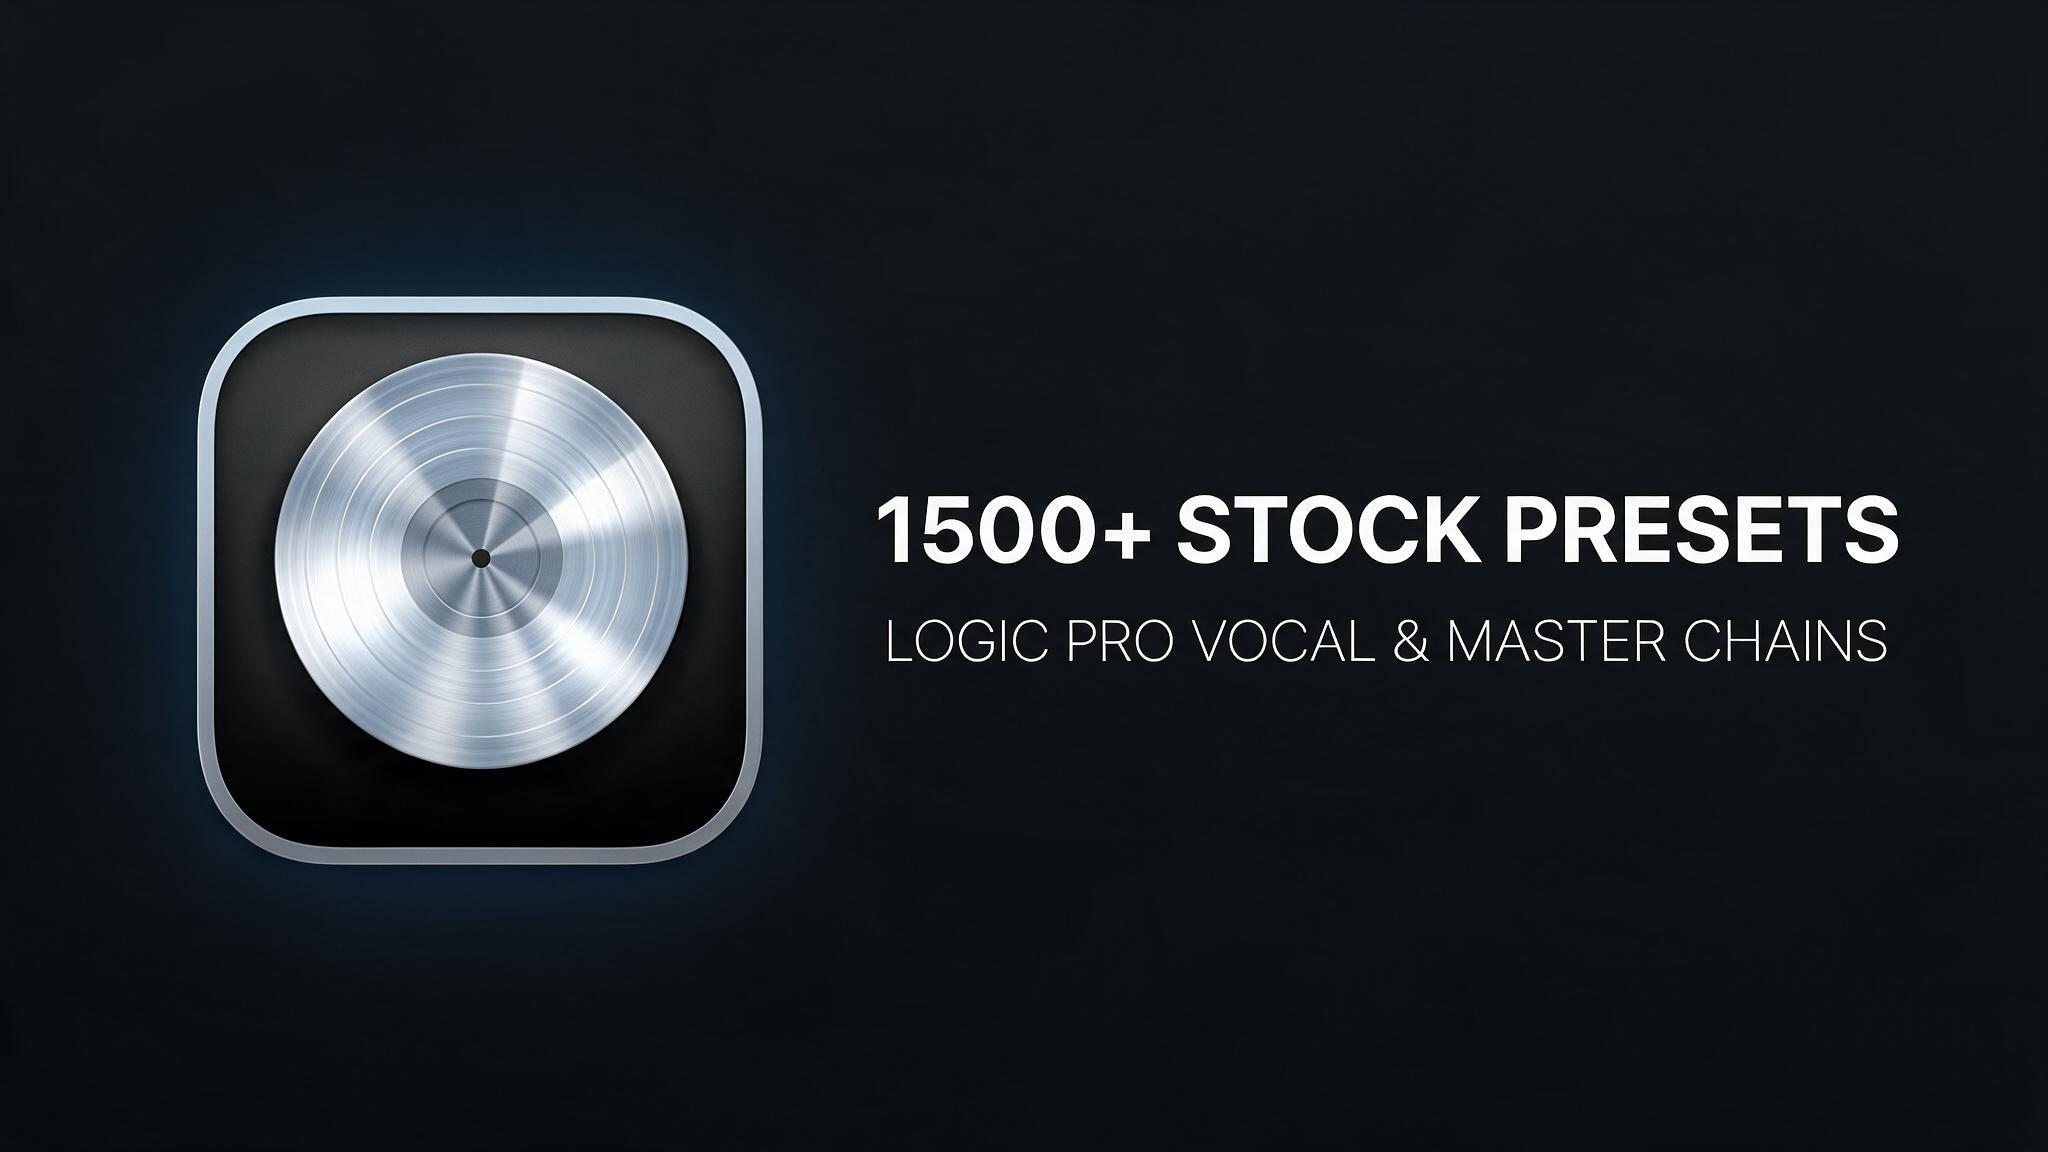
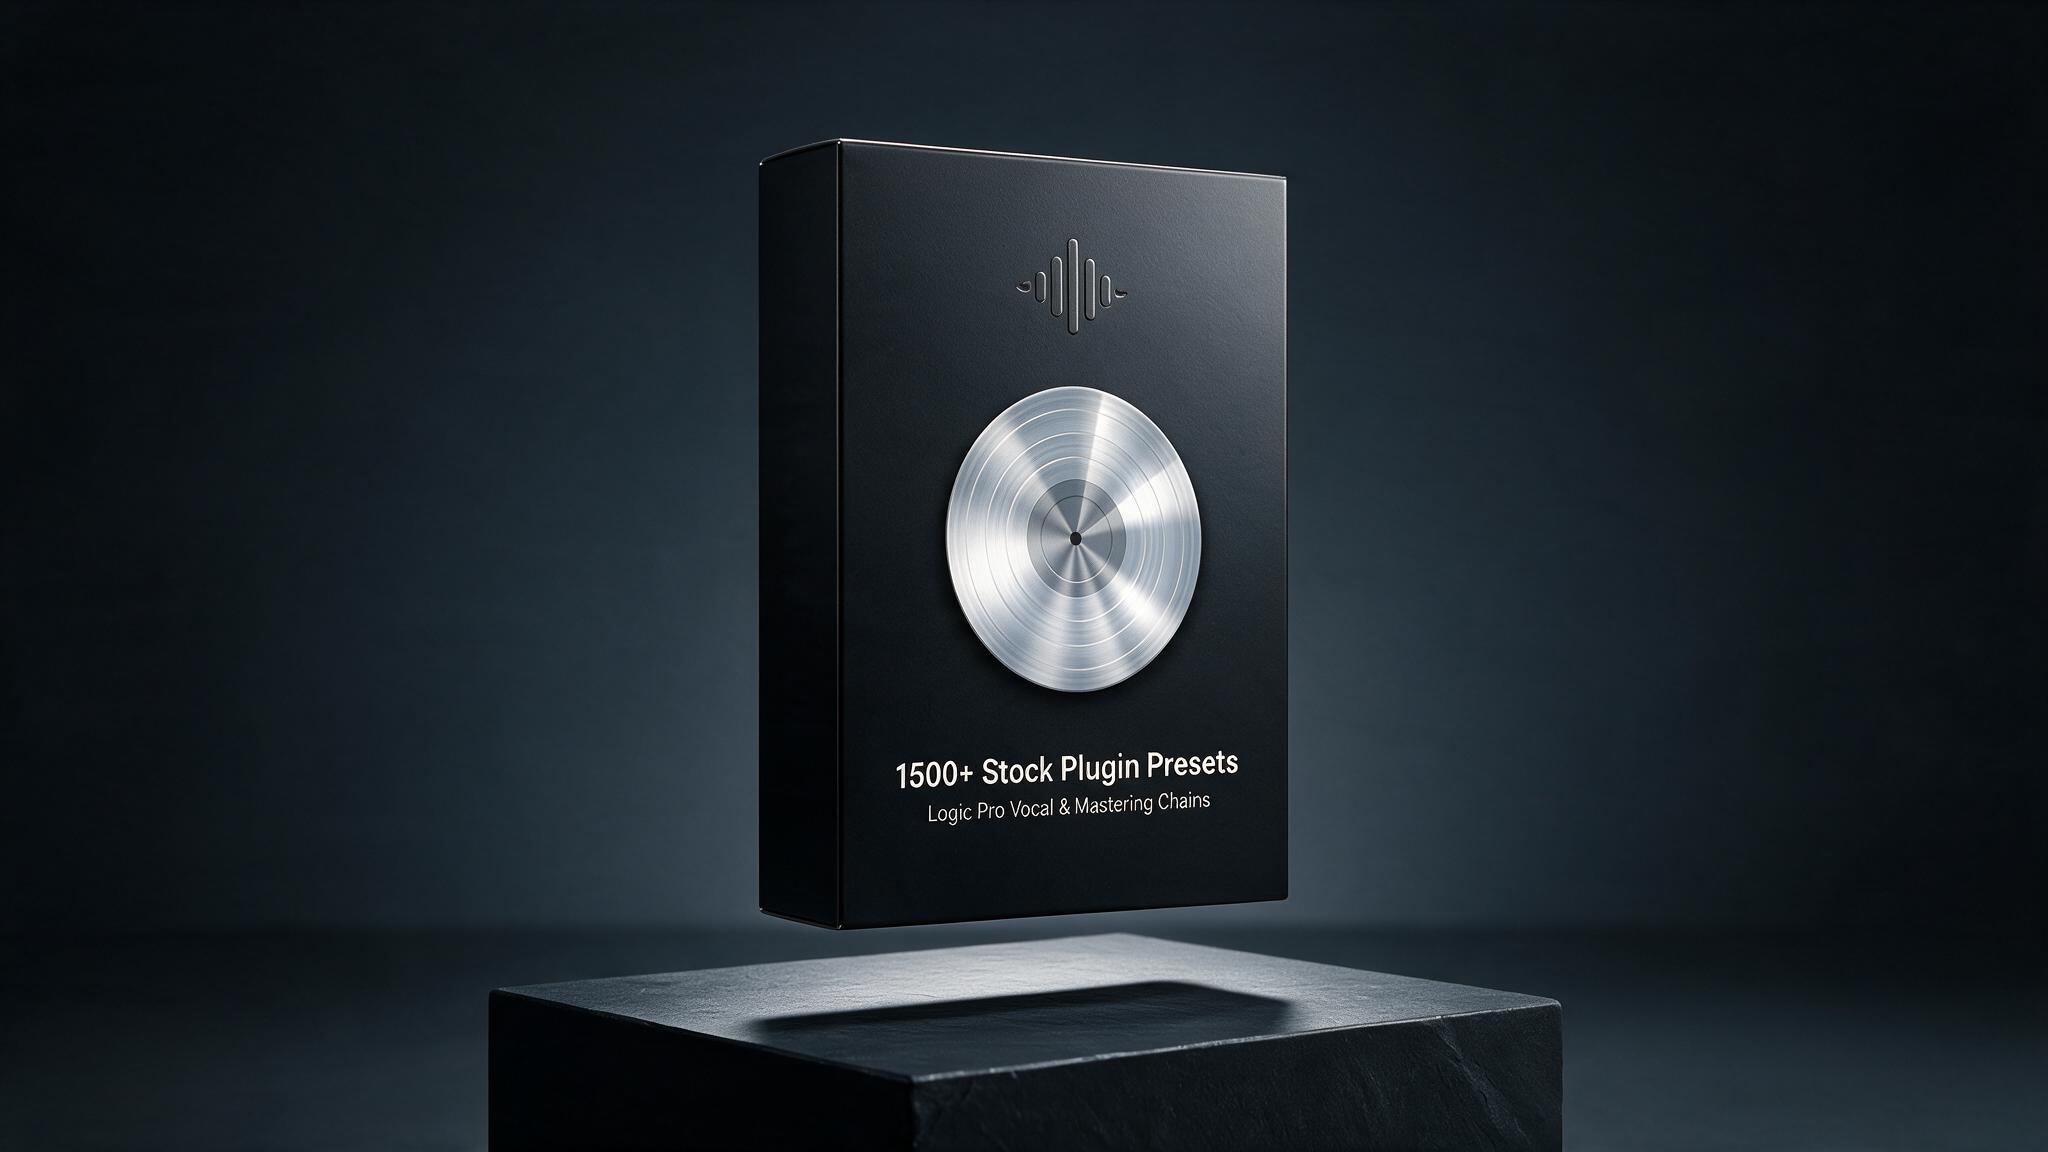
Onboarded new 3D digital product box cover for Logic Pro Premium Presets Pack

diff --git a/shop.html b/shop.html
@@ -237,7 +237,7 @@
                         <!-- Product Card 2: Logic Pro Premium Presets Pack -->
                         <article class="catalog-course-card reveal-on-scroll" data-category="logic-pro vocal-chains mastering" data-title="logic pro premium presets pack 1500 stock plugins presets vocal mixing mastering chains lead adlibs background" data-price="199">
                             <div class="course-thumb-wrapper">
-                                <img src="Assets/Logic Pro Premium Presets Pack Cover.jpg" alt="Logic Pro Premium Presets Pack (1500+ Stock Plugins Presets)" class="course-thumb">
+                                <img src="Assets/Logic Pro Premium Presets Pack Cover.jpg?v=2" alt="Logic Pro Premium Presets Pack (1500+ Stock Plugins Presets)" class="course-thumb">
                                 <span class="course-badge badge-blue">1500+ STOCK PRESETS</span>
                             </div>
 

diff --git a/index.html b/index.html
@@ -323,7 +323,7 @@
                                 <!-- Left Column: Framed 16:9 Cover Image -->
                                 <div class="split-card-media-wrapper">
                                     <div class="split-card-media">
-                                        <img src="Assets/Logic Pro Premium Presets Pack Cover.jpg" alt="Logic Pro Premium Presets Pack (1500+ Stock Plugins Presets)" class="split-media-img">
+                                        <img src="Assets/Logic Pro Premium Presets Pack Cover.jpg?v=2" alt="Logic Pro Premium Presets Pack (1500+ Stock Plugins Presets)" class="split-media-img">
                                     </div>
                                 </div>
 
